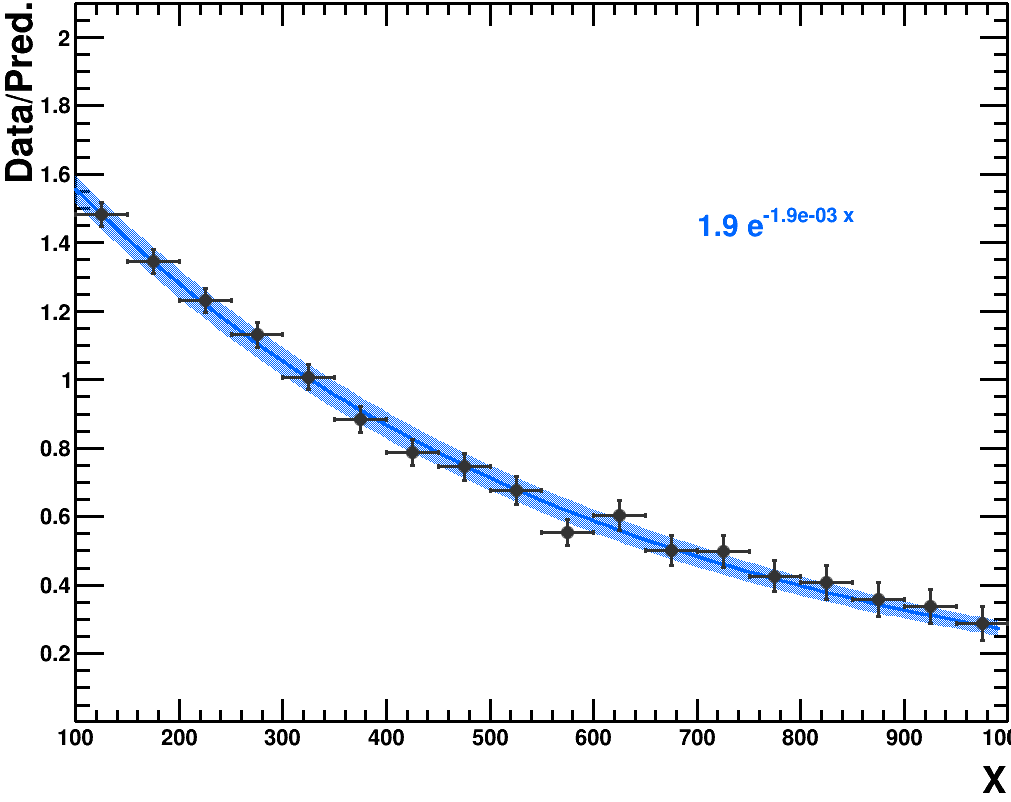
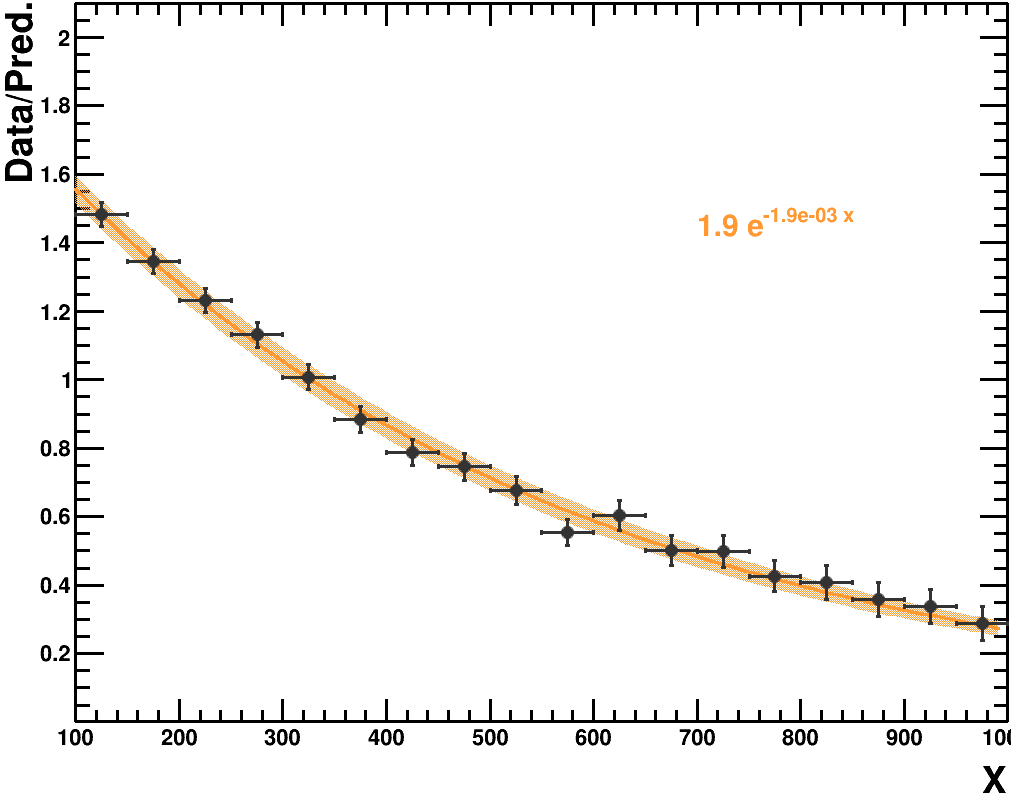
Correcting colors

diff --git a/examples/NNReweighting/fit.cpp b/examples/NNReweighting/fit.cpp
@@ -181,14 +181,14 @@ void fit()
   }
 
   auto gr_fit_unc = new TGraphErrors(n,&x_fit[0],&y_fit[0],0,&y_fit_err[0]);
-  gr_fit_unc->SetFillStyle(3001); gr_fit_unc->SetFillColor(kAzure-3); gr_fit_unc->SetLineColor(kAzure-3);
+  gr_fit_unc->SetFillStyle(3001); gr_fit_unc->SetFillColor(kOrange+1); gr_fit_unc->SetLineColor(kOrange+1);
   gr_fit_unc->Draw("e3 l same");
   hdiff->Draw("e1 same");
 
   TLatex latex_fit;
   latex_fit.SetTextSize(0.04);
   latex_fit.SetTextAlign(13);  //align at top
-  latex_fit.SetTextColor(kAzure-3);
+  latex_fit.SetTextColor(kOrange+1);
   latex_fit.DrawLatex(700,1.5,Form("%1.1f e^{%1.1e x}",fun->GetParameter(0),fun->GetParameter(1)));
   
   c_fit->SaveAs("plots/toy_fit.png");
@@ -214,14 +214,14 @@ void fit()
   }
 
   auto gr_nn_unc = new TGraphErrors(gr_nn->GetN(),&x_nn[0],&y_nn[0],0,&y_nn_err[0]);
-  gr_nn_unc->SetFillStyle(3001); gr_nn_unc->SetFillColor(kOrange+1); gr_nn_unc->SetLineColor(kOrange+1);
+  gr_nn_unc->SetFillStyle(3001); gr_nn_unc->SetFillColor(kAzure-3); gr_nn_unc->SetLineColor(kAzure-3);
   gr_nn_unc->Draw("e3 l same");
   hdiff->Draw("e1 same");
   
   TLatex latex_nn;
   latex_nn.SetTextSize(0.04);
   latex_nn.SetTextAlign(13);  //align at top
-  latex_nn.SetTextColor(kOrange+1);
+  latex_nn.SetTextColor(kAzure-3);
   latex_nn.DrawLatex(700,1.5,"NN(x)");
   
   c_nn->SaveAs("plots/toy_nn.png");
